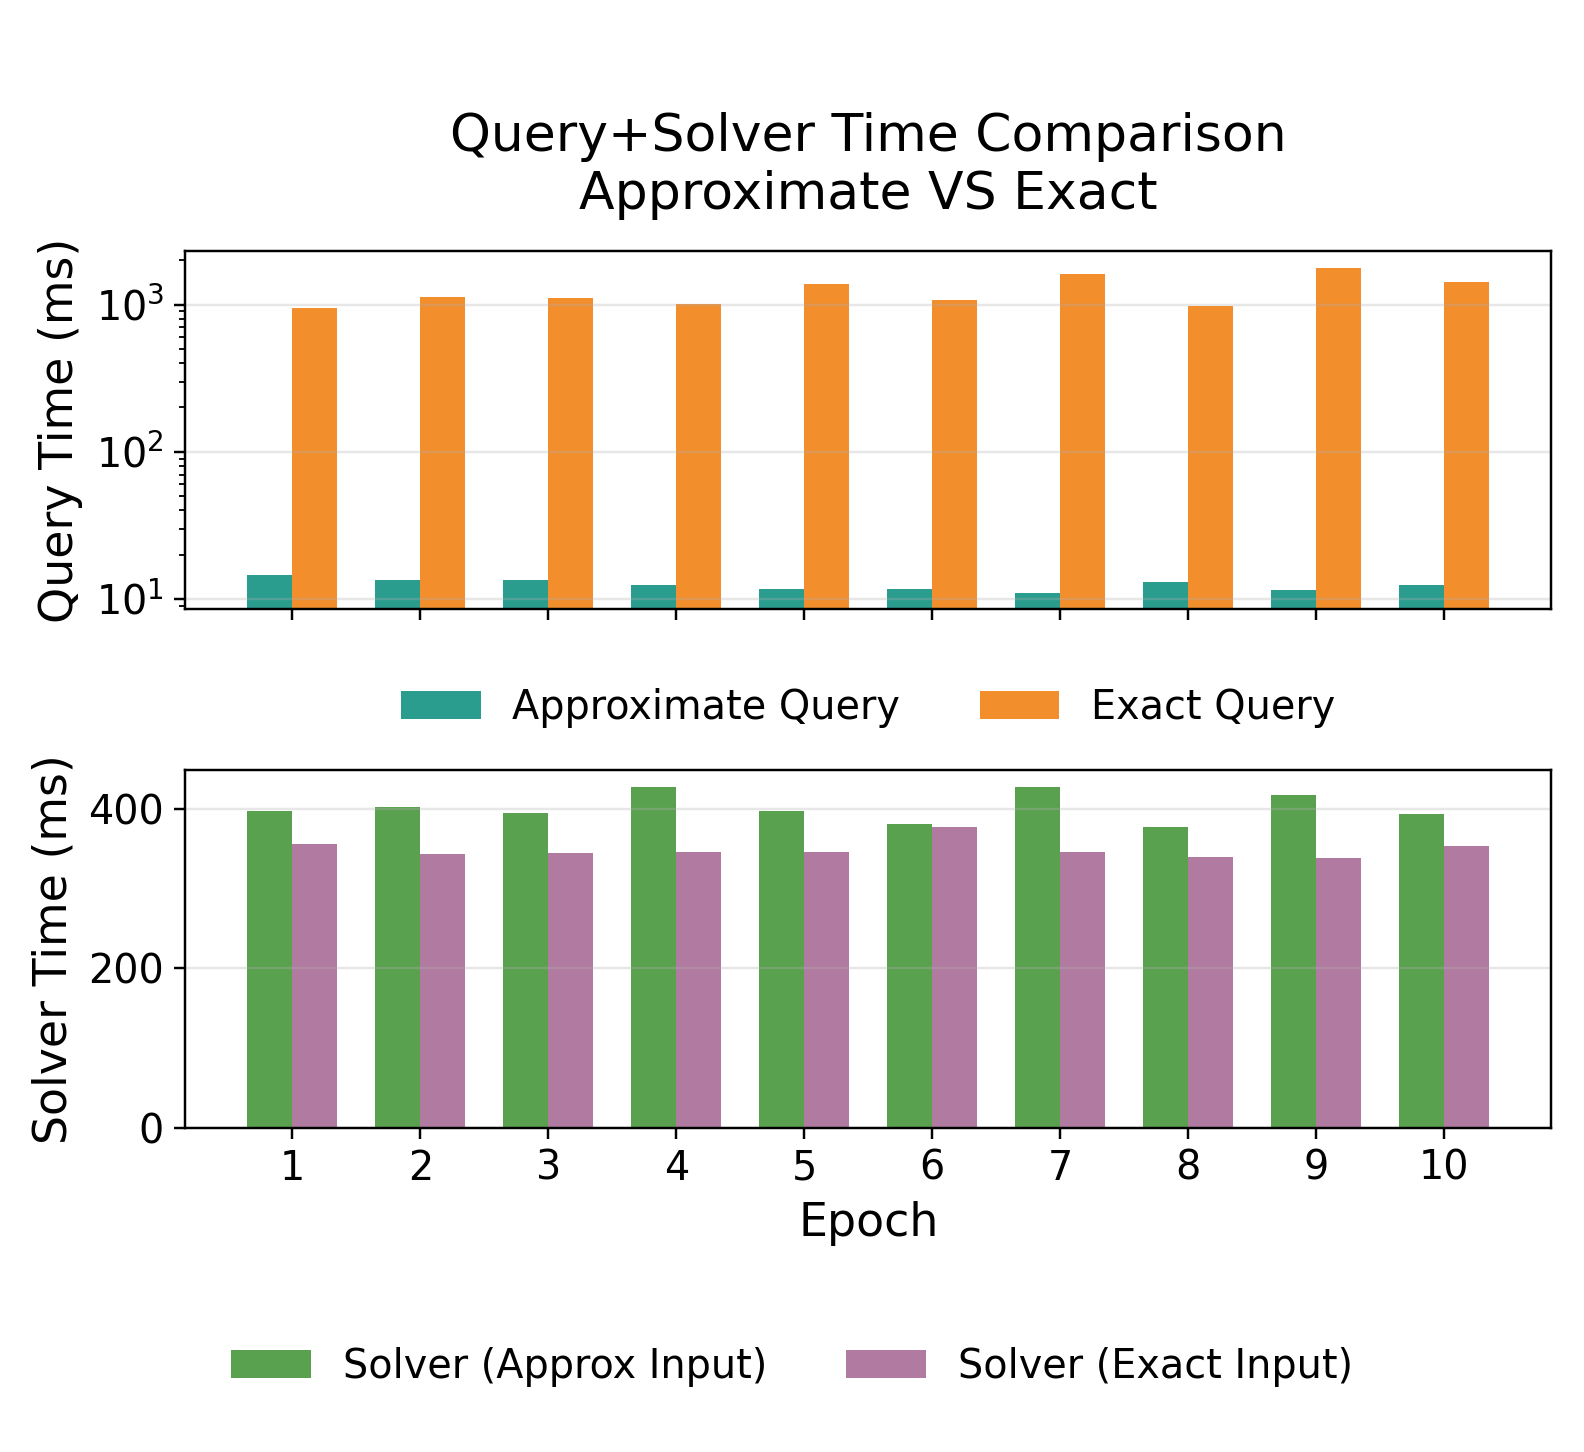
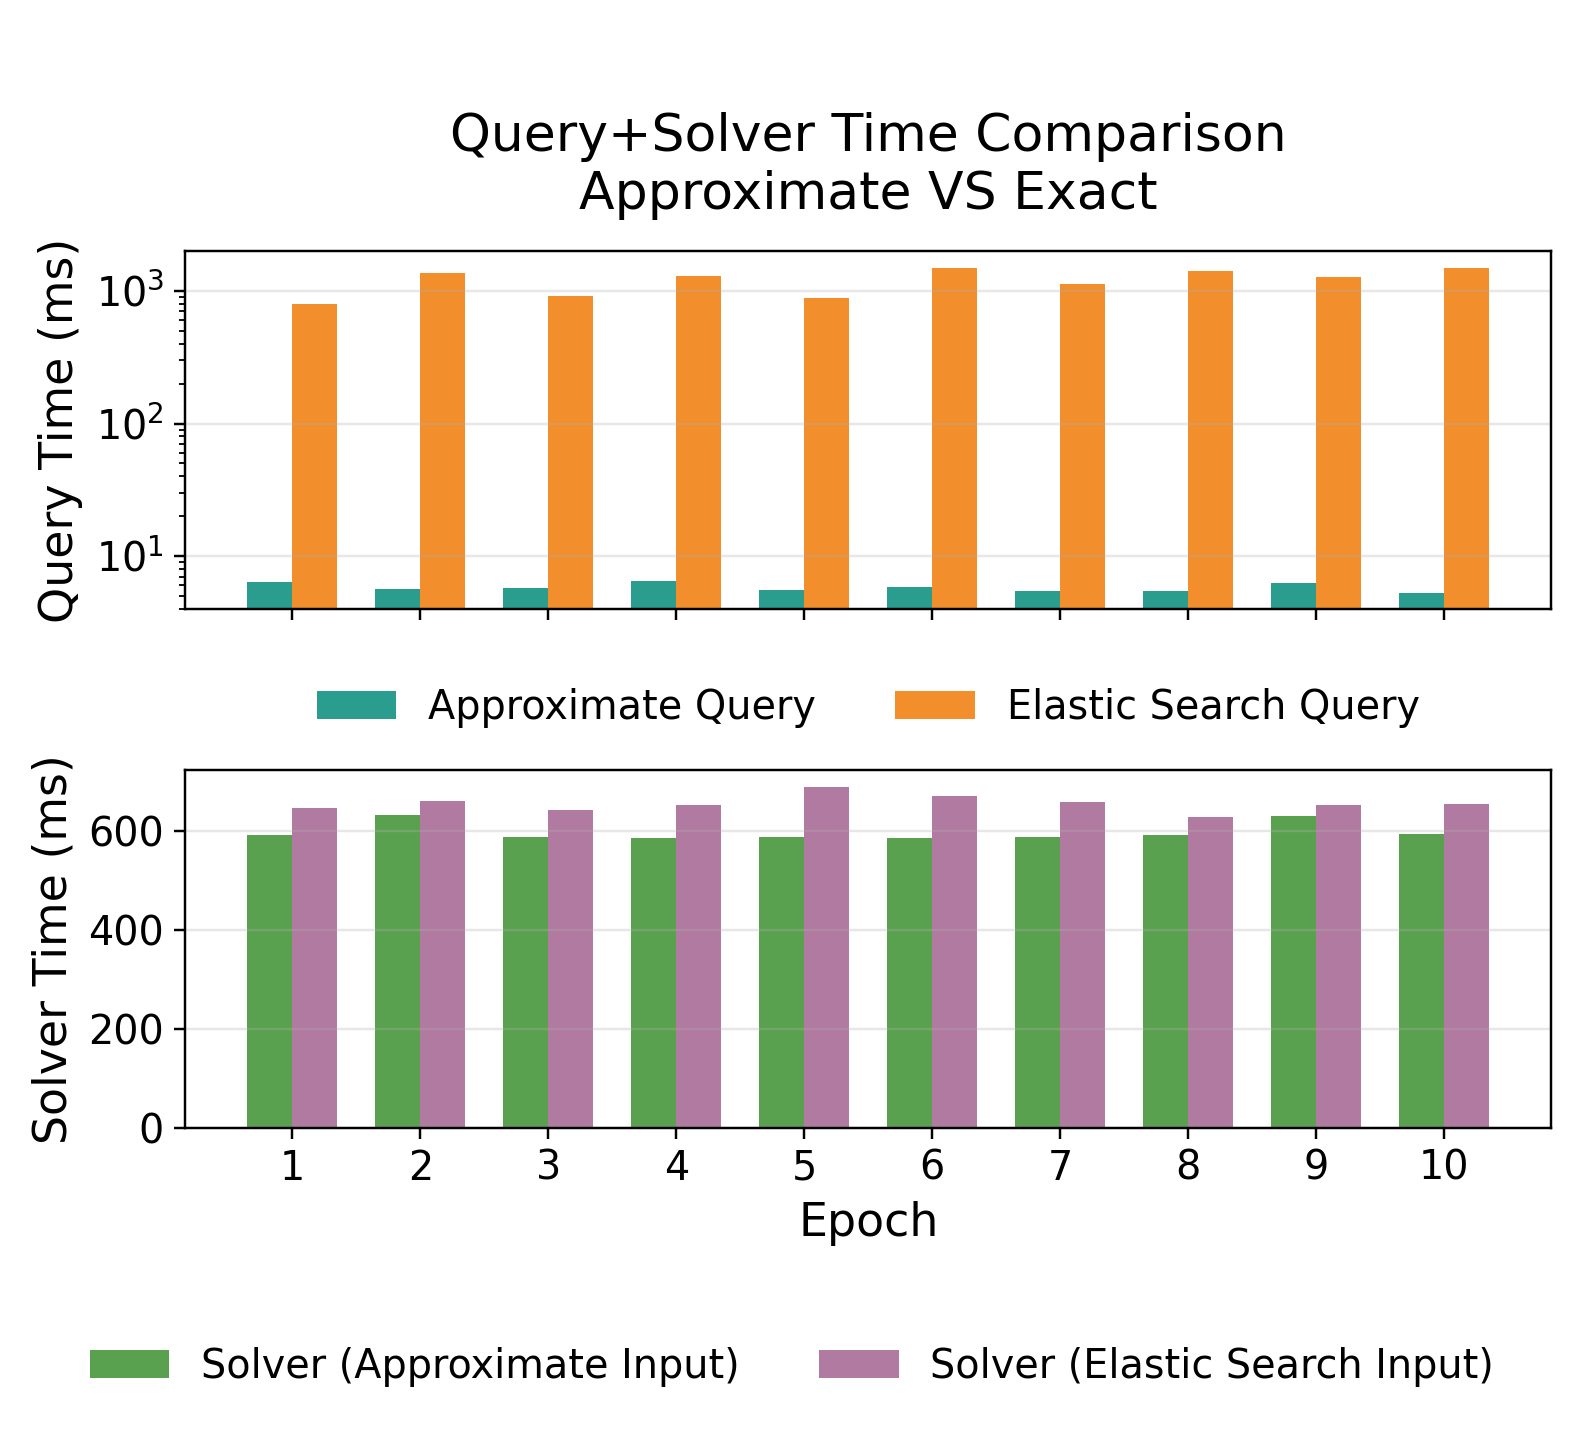
Add solver-only plot; regenerate query+solver split with unified labels
- plot_query_solver_only.py: new plot_solver_only() (single linear-y bar chart
  of solver time, approx vs ES input). Unify all legends to "Approximate" /
  "Elastic Search" wording (Exact Query -> Elastic Search Query; Approx/Exact
  Input -> Approximate/Elastic Search Input).
- Regenerate CBC 30-node solver-only and query+solver split plots.

diff --git a/scripts/plot_query_solver_only.py b/scripts/plot_query_solver_only.py
@@ -42,11 +42,11 @@ def plot_query_solver(csv_path: Path, out_path: Path, backend: str) -> None:
 
     ax.bar(x - bar_w / 2, s_query, bar_w, label="Approximate Query", color="#2a9d8f")
     ax.bar(x - bar_w / 2, s_solver, bar_w, bottom=s_query,
-           label="Solver (Approx Input)", color="#59a14f")
+           label="Solver (Approximate Input)", color="#59a14f")
 
-    ax.bar(x + bar_w / 2, e_query,  bar_w, label="Exact Query",  color="#f28e2b")
+    ax.bar(x + bar_w / 2, e_query,  bar_w, label="Elastic Search Query",  color="#f28e2b")
     ax.bar(x + bar_w / 2, e_solver, bar_w, bottom=e_query,
-           label="Solver (Exact Input)", color="#b07aa1")
+           label="Solver (Elastic Search Input)", color="#b07aa1")
 
     ax.set_xticks(x)
     ax.set_xticklabels([str(e) for e in epochs])
@@ -93,7 +93,7 @@ def plot_query_solver_split(csv_path: Path, out_path: Path, backend: str) -> Non
     fig, (ax_q, ax_s) = plt.subplots(2, 1, figsize=(7.2, 6.6), sharex=True)
 
     ax_q.bar(x - bar_w / 2, s_query, bar_w, label="Approximate Query", color="#2a9d8f")
-    ax_q.bar(x + bar_w / 2, e_query, bar_w, label="Exact Query", color="#f28e2b")
+    ax_q.bar(x + bar_w / 2, e_query, bar_w, label="Elastic Search Query", color="#f28e2b")
     ax_q.set_ylabel("Query Time (ms)", fontsize=LABEL_FS)
     ax_q.set_yscale("log")
     ax_q.grid(axis="y", alpha=0.3)
@@ -105,8 +105,8 @@ def plot_query_solver_split(csv_path: Path, out_path: Path, backend: str) -> Non
         pad=14,
     )
 
-    ax_s.bar(x - bar_w / 2, s_solver, bar_w, label="Solver (Approx Input)", color="#59a14f")
-    ax_s.bar(x + bar_w / 2, e_solver, bar_w, label="Solver (Exact Input)", color="#b07aa1")
+    ax_s.bar(x - bar_w / 2, s_solver, bar_w, label="Solver (Approximate Input)", color="#59a14f")
+    ax_s.bar(x + bar_w / 2, e_solver, bar_w, label="Solver (Elastic Search Input)", color="#b07aa1")
     ax_s.set_xlabel("Epoch", fontsize=LABEL_FS)
     ax_s.set_ylabel("Solver Time (ms)", fontsize=LABEL_FS)
     ax_s.grid(axis="y", alpha=0.3)
@@ -191,6 +191,53 @@ def plot_query_only(csv_path: Path, out_path: Path, backend: str) -> None:
     print(f"Saved: {out_path}")
 
 
+def plot_solver_only(csv_path: Path, out_path: Path, backend: str) -> None:
+    """Single bar chart comparing solver time only (no query), linear y-axis."""
+    rows = load_csv(csv_path)
+
+    TITLE_FS = 17
+    LABEL_FS = 15
+    TICK_FS = 13
+    LEGEND_FS = 13
+
+    epochs = [int(r["epoch"]) for r in rows]
+    s_solver = [float(r["server_solver_ms"]) for r in rows]
+    e_solver = [float(r["es_solver_ms"]) for r in rows]
+
+    x = np.arange(len(epochs))
+    bar_w = 0.35
+
+    fig, ax_s = plt.subplots(figsize=(7.2, 4.4))
+
+    ax_s.bar(x - bar_w / 2, s_solver, bar_w, label="Solver (Approximate Input)", color="#59a14f")
+    ax_s.bar(x + bar_w / 2, e_solver, bar_w, label="Solver (Elastic Search Input)", color="#b07aa1")
+    ax_s.set_xlabel("Epoch", fontsize=LABEL_FS)
+    ax_s.set_ylabel("Solver Time (ms)", fontsize=LABEL_FS)
+    ax_s.grid(axis="y", alpha=0.3)
+    ax_s.tick_params(axis="both", labelsize=TICK_FS)
+    ax_s.set_title(
+        "Solver Time Comparison\n"
+        "Approximate VS Exact",
+        fontsize=TITLE_FS,
+        pad=14,
+    )
+    ax_s.set_xticks(x)
+    ax_s.set_xticklabels([str(e) for e in epochs])
+
+    ax_s.legend(
+        loc="upper center",
+        bbox_to_anchor=(0.5, -0.18),
+        ncol=2,
+        fontsize=LEGEND_FS,
+        frameon=False,
+    )
+
+    plt.tight_layout(rect=[0, 0.06, 1, 0.97])
+    plt.savefig(out_path, dpi=220)
+    plt.close(fig)
+    print(f"Saved: {out_path}")
+
+
 def plot_query_solver_logy(csv_path: Path, out_path: Path, backend: str) -> None:
     rows = load_csv(csv_path)
 
@@ -213,10 +260,10 @@ def plot_query_solver_logy(csv_path: Path, out_path: Path, backend: str) -> None
     fig_h = 5.0
     fig, ax = plt.subplots(figsize=(fig_w, fig_h))
 
-    ax.bar(x - 1.8 * bar_w, s_solver, bar_w, label="Solver (Approx input)", color="#59a14f")
+    ax.bar(x - 1.8 * bar_w, s_solver, bar_w, label="Solver (Approximate Input)", color="#59a14f")
     ax.bar(x - 0.6 * bar_w, s_query, bar_w, label="Approximate Query", color="#2a9d8f")
-    ax.bar(x + 0.6 * bar_w, e_solver, bar_w, label="Solver (Exact input)", color="#b07aa1")
-    ax.bar(x + 1.8 * bar_w, e_query, bar_w, label="Exact Query", color="#f28e2b")
+    ax.bar(x + 0.6 * bar_w, e_solver, bar_w, label="Solver (Elastic Search Input)", color="#b07aa1")
+    ax.bar(x + 1.8 * bar_w, e_query, bar_w, label="Elastic Search Query", color="#f28e2b")
 
     ax.set_xticks(x)
     ax.set_xticklabels([str(e) for e in epochs])
@@ -262,6 +309,11 @@ if __name__ == "__main__":
     plot_query_only(
         data_dir / "rtt_results_epoch_full_ortools_cbc_30nodes.csv",
         plot_dir / "rtt_epoch_query_only_ortools_cbc_30nodes.png",
+        "CBC",
+    )
+    plot_solver_only(
+        data_dir / "rtt_results_epoch_full_ortools_cbc_30nodes.csv",
+        plot_dir / "rtt_epoch_solver_only_ortools_cbc_30nodes.png",
         "CBC",
     )
     plot_query_solver_logy(
